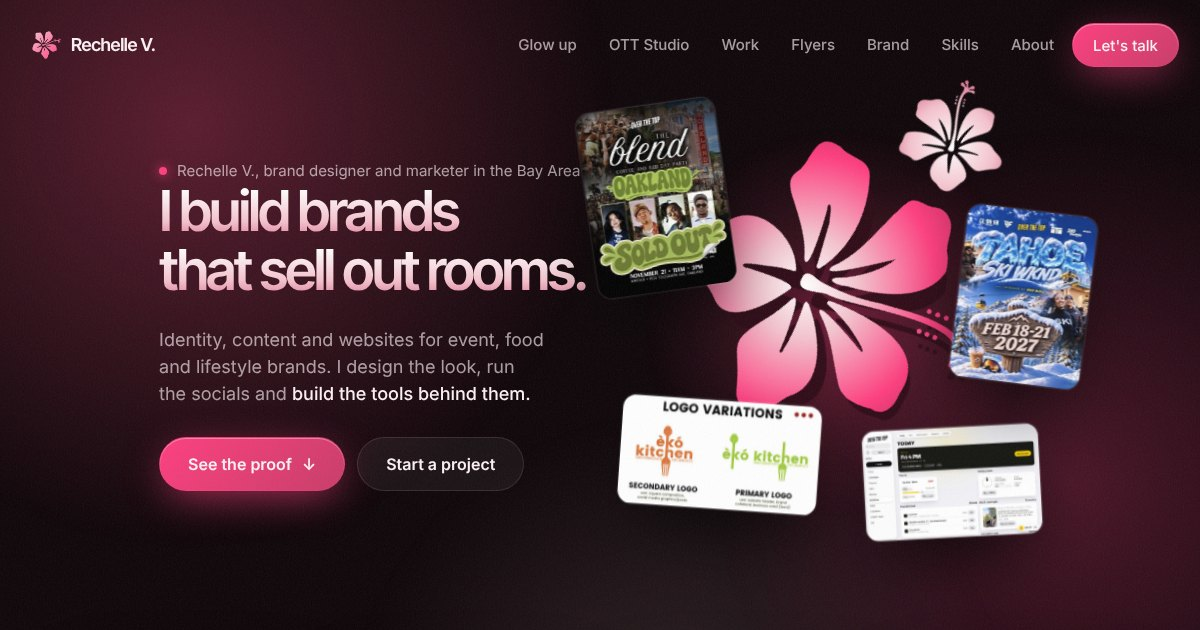
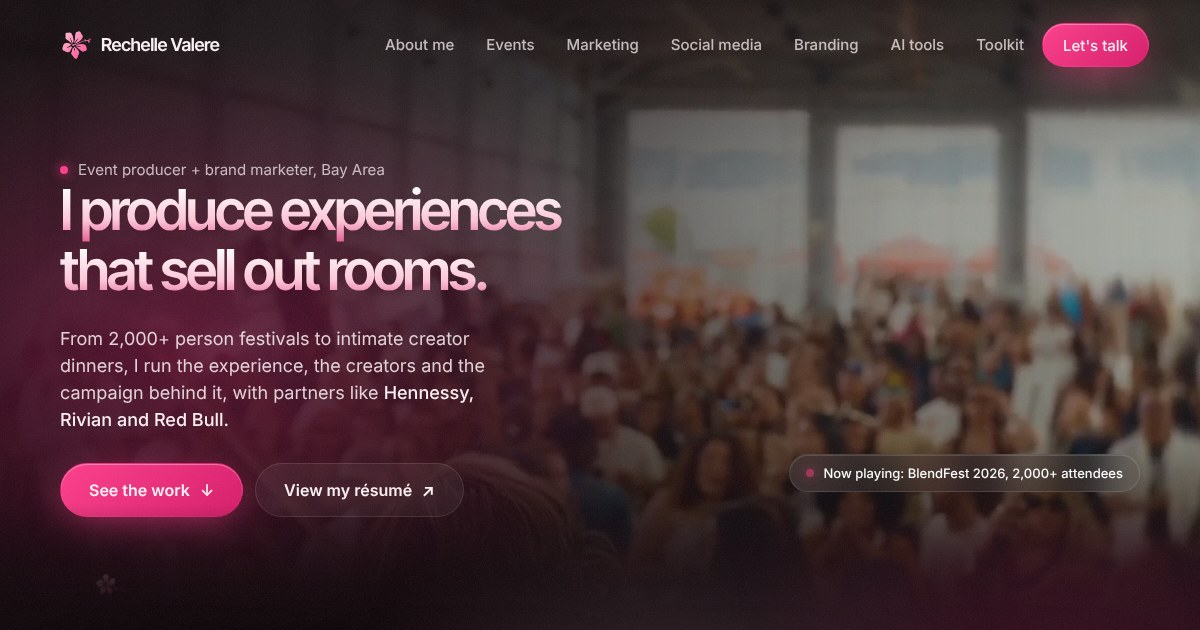
Event-led hero and meta, Creator House before BlendFest case study, new share image
Claude-Session: https://claude.ai/code/session_01Gh9BUT9RxXEN2dPwXvpLNA

diff --git a/index.html b/index.html
@@ -3,10 +3,10 @@
 <head>
 <meta charset="utf-8">
 <meta name="viewport" content="width=device-width, initial-scale=1">
-<title>Rechelle Valere | Brand, marketing and web design</title>
-<meta name="description" content="Rechelle Valere builds brands that sell out rooms: identity, content, social growth and websites for event, food and lifestyle brands.">
-<meta property="og:title" content="Rechelle Valere | I build brands that sell out rooms">
-<meta property="og:description" content="Brand identity, social growth and web design. OTT 5x in a year, 1M+ monthly views, and a marketing tool built from scratch.">
+<title>Rechelle Valere | Event producer, creator experiences + brand marketing</title>
+<meta name="description" content="Rechelle Valere produces events and creator experiences that sell out rooms, with partners like Hennessy, Rivian and Red Bull.">
+<meta property="og:title" content="Rechelle Valere | Event producer + creator experiences">
+<meta property="og:description" content="Events and creator experiences that sell out rooms, with partners like Hennessy, Rivian and Red Bull.">
 <meta property="og:image" content="og.jpg">
 <meta name="twitter:card" content="summary_large_image">
 <link rel="icon" type="image/png" href="shots/icon64.png">
@@ -1158,8 +1158,8 @@ h2.grad:not(.wdin){opacity:.001;transform:translateY(.25em)}
   <div class="wrap hgrid">
     <div>
       <span class="eyebrow"><i></i>Event producer + brand marketer, Bay Area</span>
-      <h1 class="name" aria-label="I build brands that sell out rooms."><span class="row"><span class="grad">I build brands</span></span><span class="row"><span class="grad">that sell out rooms.</span></span></h1>
-      <p class="lede">I produce events, creator experiences and the brands behind them, from 2,000+ person festivals to intimate creator dinners, with partners like <b>Hennessy, Rivian and Red Bull.</b></p>
+      <h1 class="name" aria-label="I produce experiences that sell out rooms."><span class="row"><span class="grad">I produce experiences</span></span><span class="row"><span class="grad">that sell out rooms.</span></span></h1>
+      <p class="lede">From 2,000+ person festivals to intimate creator dinners, I run the experience, the creators and the campaign behind it, with partners like <b>Hennessy, Rivian and Red Bull.</b></p>
       <div class="ctas"><a class="btn hot" href="#room">See the work <span aria-hidden="true">↓</span></a><a class="btn" href="Rechelle_Valere_Resume.pdf" target="_blank" rel="noopener">View my résumé <span aria-hidden="true">↗</span></a></div>
     </div>
     </div>
@@ -1195,7 +1195,20 @@ h2.grad:not(.wdin){opacity:.001;transform:translateY(.25em)}
   <div class="wrap">
     <div class="head rv"><div><span class="eyebrow"><i></i>In the room</span><h2 class="grad" style="margin-top:14px">Event production</h2></div><p>Real moments from events I produced and marketed. No stock, no staging.</p></div>
     <div class="rmgrid"><figure class="rm rv"><video muted loop playsinline preload="none" poster="vid/bf1.jpg" aria-label="BlendFest footage"><source src="vid/bf1.mp4" type="video/mp4"></video><figcaption><b>BlendFest</b><span>2,000+ attendees, including same-day tickets</span></figcaption></figure><figure class="rm rv"><video muted loop playsinline preload="none" poster="vid/bf2.jpg" aria-label="Brand moments footage"><source src="vid/bf2.mp4" type="video/mp4"></video><figcaption><b>Brand moments</b><span>Hennessy and coffee bars built into BlendFest</span></figcaption></figure><figure class="rm rv"><video muted loop playsinline preload="none" poster="vid/bf3.jpg" aria-label="DJ sets + sing-alongs footage"><source src="vid/bf3.mp4" type="video/mp4"></video><figcaption><b>DJ sets + sing-alongs</b><span>From a 40+ artist roster with a 3M combined following</span></figcaption></figure><figure class="rm rv"><video muted loop playsinline preload="none" poster="vid/room1.jpg" aria-label="The Blend tour footage"><source src="vid/room1.mp4" type="video/mp4"></video><figcaption><b>The Blend tour</b><span>Sold out in Los Angeles, Las Vegas and Oakland</span></figcaption></figure><figure class="rm rv"><video muted loop playsinline preload="none" poster="vid/room3.jpg" aria-label="Tahoe Ski Weekend footage"><source src="vid/room3.mp4" type="video/mp4"></video><figcaption><b>Tahoe Ski Weekend</b><span>Grew from 60 to 300+ attendees in one year</span></figcaption></figure></div>
-  <div class="bfc rv" id="blendfest">
+  <div class="crt rv">
+      <div class="crthead"><div><span class="eyebrow"><i></i>Creator + talent programs</span><h3>OTT Creator House</h3></div><p>50+ repeat Bay Area creators with a combined 2M following. I brief them on the brand experience, then give them freedom to create, supporting wherever they ask.</p></div>
+      <div class="crtgrid">
+        <div class="crs glass big"><video class="crsv" muted loop playsinline autoplay preload="none" poster="vid/bf1.jpg" aria-hidden="true"><source src="vid/bf1.mp4" type="video/mp4"></video><b>1M+</b><span>views from creator content at BlendFest, across multiple brands</span></div>
+        <div class="crs glass"><b>325K+</b><span>views at The Blend Juneteenth, part of Hennessy's Henny Ritas summer launch</span></div>
+        <div class="crs glass"><b>250K</b><span>views from the Endless Summer Pool Party with Hennessy</span></div>
+        <div class="crs glass"><b>100K+</b><span>views and 5K shares from a creator experience with Nectar Collective</span></div>
+        <div class="crs glass"><b>40+</b><span>artist roster with a 3M combined following. DJ Hunny Bee, whom I recommended, has been rebooked by Apple three times</span></div>
+        <div class="crs glass wide"><b>5M</b><span>combined following across OTT's creator and talent network</span></div>
+      </div>
+      <div class="crvhead"><h4>Creator content</h4><span>A few posts from creators I hosted at OTT events.</span></div>
+      <div class="crvmarq"><div class="crvtrack"><figure class="rm crv"><video muted loop playsinline preload="none" poster="vid/cr_jay_bf.jpg"><source src="vid/cr_jay_bf.mp4" type="video/mp4"></video><figcaption><b>@xoxojay___</b><span>BlendFest creator experience, with Hennessy pouring</span></figcaption></figure><figure class="rm crv"><video muted loop playsinline preload="none" poster="vid/cr_chris.jpg"><source src="vid/cr_chris.mp4" type="video/mp4"></video><figcaption><b>@100ways2live</b><span>8-year anniversary yacht party with City Cruises: "same time next year?"</span></figcaption></figure><figure class="rm crv"><video muted loop playsinline preload="none" poster="vid/cr_hannah.jpg"><source src="vid/cr_hannah.mp4" type="video/mp4"></video><figcaption><b>@xirimpi</b><span>Labor Day sunset cruise aboard City Cruises' San Francisco Spirit</span></figcaption></figure><figure class="rm crv"><video muted loop playsinline preload="none" poster="vid/cr_jay_pool.jpg"><source src="vid/cr_jay_pool.mp4" type="video/mp4"></video><figcaption><b>@just_jeseeka</b><span>Rooftop pool party at Hotel Nikko with Hennessy and Nectar Collective</span></figcaption></figure><figure class="rm crv"><video muted loop playsinline preload="none" poster="vid/cr_zoe.jpg"><source src="vid/cr_zoe.mp4" type="video/mp4"></video><figcaption><b>@zoegabon</b><span>Pre-event promo for the yacht party with W San Francisco</span></figcaption></figure><figure class="rm crv"><video muted loop playsinline preload="none" poster="vid/cr_sarina.jpg"><source src="vid/cr_sarina.mp4" type="video/mp4"></video><figcaption><b>@babylumpiia</b><span>Product content for Nectar Collective at an OTT pool party</span></figcaption></figure><figure class="rm crv" aria-hidden="true"><video muted loop playsinline preload="none" poster="vid/cr_jay_bf.jpg"><source src="vid/cr_jay_bf.mp4" type="video/mp4"></video><figcaption><b>@xoxojay___</b><span>BlendFest creator experience, with Hennessy pouring</span></figcaption></figure><figure class="rm crv" aria-hidden="true"><video muted loop playsinline preload="none" poster="vid/cr_chris.jpg"><source src="vid/cr_chris.mp4" type="video/mp4"></video><figcaption><b>@100ways2live</b><span>8-year anniversary yacht party with City Cruises: "same time next year?"</span></figcaption></figure><figure class="rm crv" aria-hidden="true"><video muted loop playsinline preload="none" poster="vid/cr_hannah.jpg"><source src="vid/cr_hannah.mp4" type="video/mp4"></video><figcaption><b>@xirimpi</b><span>Labor Day sunset cruise aboard City Cruises' San Francisco Spirit</span></figcaption></figure><figure class="rm crv" aria-hidden="true"><video muted loop playsinline preload="none" poster="vid/cr_jay_pool.jpg"><source src="vid/cr_jay_pool.mp4" type="video/mp4"></video><figcaption><b>@just_jeseeka</b><span>Rooftop pool party at Hotel Nikko with Hennessy and Nectar Collective</span></figcaption></figure><figure class="rm crv" aria-hidden="true"><video muted loop playsinline preload="none" poster="vid/cr_zoe.jpg"><source src="vid/cr_zoe.mp4" type="video/mp4"></video><figcaption><b>@zoegabon</b><span>Pre-event promo for the yacht party with W San Francisco</span></figcaption></figure><figure class="rm crv" aria-hidden="true"><video muted loop playsinline preload="none" poster="vid/cr_sarina.jpg"><source src="vid/cr_sarina.mp4" type="video/mp4"></video><figcaption><b>@babylumpiia</b><span>Product content for Nectar Collective at an OTT pool party</span></figcaption></figure></div></div>
+    
+    <div class="bfc rv" id="blendfest">
       <div class="bfchead"><div><span class="eyebrow"><i></i>Case study</span><h3>BlendFest 2026, start to finish</h3></div><p>OTT's first festival-scale event: a coffee and R&amp;B day festival presented by Hennessy at The Bridge Yard in Oakland, headlined by DJ Jae Murphy. I was VIP &amp; Guest Experience Lead on a core team of five.</p></div>
       <div class="bfchips"><span>Aug 15, 2026</span><span>The Bridge Yard, Oakland</span><span>Presented by Hennessy</span><span>8 vendor partners</span><span>5 leads, ~70 crew, vendors + artists</span></div>
       <div class="bfres bftop"><div><b>2,000+</b><span>attendees, including same-day tickets</span></div><div><b>1M+</b><span>views from creator content</span></div><div><b>500K+</b><span>impressions from the Belvedere activation</span></div><div><b>2M</b><span>social impressions</span></div></div>
@@ -1218,20 +1231,7 @@ h2.grad:not(.wdin){opacity:.001;transform:translateY(.25em)}
       <p class="bflearn">After the event we reconciled the budget and ran close-out meetings with the venue, bar partner and sponsors. What we're carrying into 2027: tighter rideshare and arrival coordination with the venue, bar staffing planned by station with throughput targets, ticket holds aligned to flow capacity, and one point of contact for every sponsor.</p>
       </details>
     </div>
-
-    <div class="crt rv">
-      <div class="crthead"><div><span class="eyebrow"><i></i>Creator + talent programs</span><h3>OTT Creator House</h3></div><p>50+ repeat Bay Area creators with a combined 2M following. I brief them on the brand experience, then give them freedom to create, supporting wherever they ask.</p></div>
-      <div class="crtgrid">
-        <div class="crs glass big"><video class="crsv" muted loop playsinline autoplay preload="none" poster="vid/bf1.jpg" aria-hidden="true"><source src="vid/bf1.mp4" type="video/mp4"></video><b>1M+</b><span>views from creator content at BlendFest, across multiple brands</span></div>
-        <div class="crs glass"><b>325K+</b><span>views at The Blend Juneteenth, part of Hennessy's Henny Ritas summer launch</span></div>
-        <div class="crs glass"><b>250K</b><span>views from the Endless Summer Pool Party with Hennessy</span></div>
-        <div class="crs glass"><b>100K+</b><span>views and 5K shares from a creator experience with Nectar Collective</span></div>
-        <div class="crs glass"><b>40+</b><span>artist roster with a 3M combined following. DJ Hunny Bee, whom I recommended, has been rebooked by Apple three times</span></div>
-        <div class="crs glass wide"><b>5M</b><span>combined following across OTT's creator and talent network</span></div>
-      </div>
-      <div class="crvhead"><h4>Creator content</h4><span>A few posts from creators I hosted at OTT events.</span></div>
-      <div class="crvmarq"><div class="crvtrack"><figure class="rm crv"><video muted loop playsinline preload="none" poster="vid/cr_jay_bf.jpg"><source src="vid/cr_jay_bf.mp4" type="video/mp4"></video><figcaption><b>@xoxojay___</b><span>BlendFest creator experience, with Hennessy pouring</span></figcaption></figure><figure class="rm crv"><video muted loop playsinline preload="none" poster="vid/cr_chris.jpg"><source src="vid/cr_chris.mp4" type="video/mp4"></video><figcaption><b>@100ways2live</b><span>8-year anniversary yacht party with City Cruises: "same time next year?"</span></figcaption></figure><figure class="rm crv"><video muted loop playsinline preload="none" poster="vid/cr_hannah.jpg"><source src="vid/cr_hannah.mp4" type="video/mp4"></video><figcaption><b>@xirimpi</b><span>Labor Day sunset cruise aboard City Cruises' San Francisco Spirit</span></figcaption></figure><figure class="rm crv"><video muted loop playsinline preload="none" poster="vid/cr_jay_pool.jpg"><source src="vid/cr_jay_pool.mp4" type="video/mp4"></video><figcaption><b>@just_jeseeka</b><span>Rooftop pool party at Hotel Nikko with Hennessy and Nectar Collective</span></figcaption></figure><figure class="rm crv"><video muted loop playsinline preload="none" poster="vid/cr_zoe.jpg"><source src="vid/cr_zoe.mp4" type="video/mp4"></video><figcaption><b>@zoegabon</b><span>Pre-event promo for the yacht party with W San Francisco</span></figcaption></figure><figure class="rm crv"><video muted loop playsinline preload="none" poster="vid/cr_sarina.jpg"><source src="vid/cr_sarina.mp4" type="video/mp4"></video><figcaption><b>@babylumpiia</b><span>Product content for Nectar Collective at an OTT pool party</span></figcaption></figure><figure class="rm crv" aria-hidden="true"><video muted loop playsinline preload="none" poster="vid/cr_jay_bf.jpg"><source src="vid/cr_jay_bf.mp4" type="video/mp4"></video><figcaption><b>@xoxojay___</b><span>BlendFest creator experience, with Hennessy pouring</span></figcaption></figure><figure class="rm crv" aria-hidden="true"><video muted loop playsinline preload="none" poster="vid/cr_chris.jpg"><source src="vid/cr_chris.mp4" type="video/mp4"></video><figcaption><b>@100ways2live</b><span>8-year anniversary yacht party with City Cruises: "same time next year?"</span></figcaption></figure><figure class="rm crv" aria-hidden="true"><video muted loop playsinline preload="none" poster="vid/cr_hannah.jpg"><source src="vid/cr_hannah.mp4" type="video/mp4"></video><figcaption><b>@xirimpi</b><span>Labor Day sunset cruise aboard City Cruises' San Francisco Spirit</span></figcaption></figure><figure class="rm crv" aria-hidden="true"><video muted loop playsinline preload="none" poster="vid/cr_jay_pool.jpg"><source src="vid/cr_jay_pool.mp4" type="video/mp4"></video><figcaption><b>@just_jeseeka</b><span>Rooftop pool party at Hotel Nikko with Hennessy and Nectar Collective</span></figcaption></figure><figure class="rm crv" aria-hidden="true"><video muted loop playsinline preload="none" poster="vid/cr_zoe.jpg"><source src="vid/cr_zoe.mp4" type="video/mp4"></video><figcaption><b>@zoegabon</b><span>Pre-event promo for the yacht party with W San Francisco</span></figcaption></figure><figure class="rm crv" aria-hidden="true"><video muted loop playsinline preload="none" poster="vid/cr_sarina.jpg"><source src="vid/cr_sarina.mp4" type="video/mp4"></video><figcaption><b>@babylumpiia</b><span>Product content for Nectar Collective at an OTT pool party</span></figcaption></figure></div></div>
-    </div>
+  </div>
   </div>
 </section>
 
